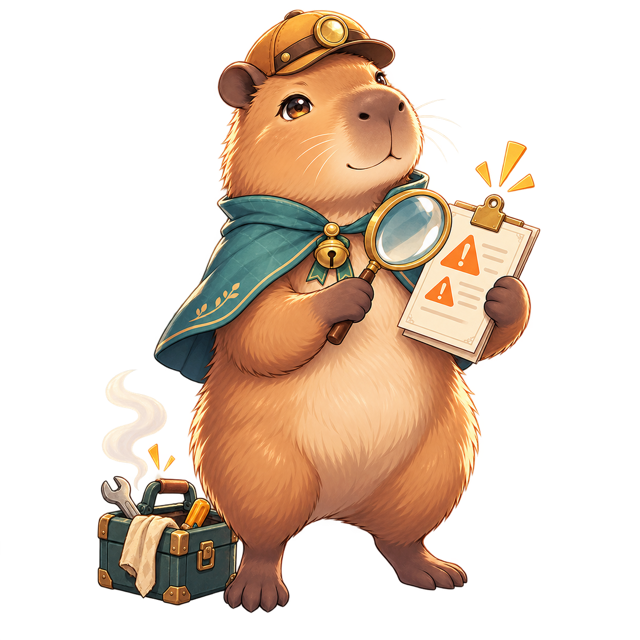
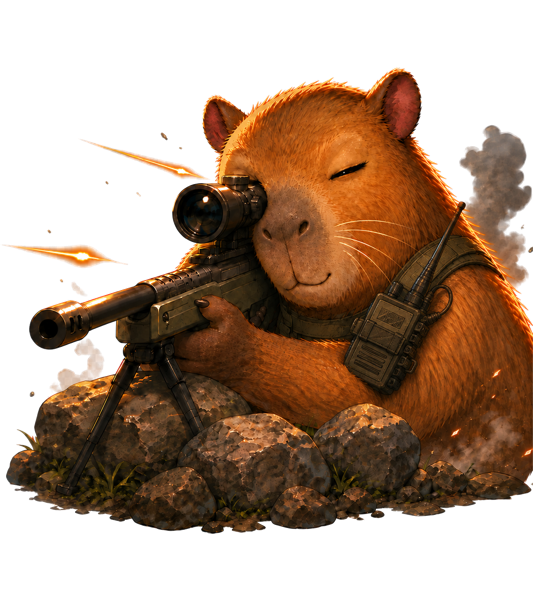
Refresh capybara states and compact notification

diff --git a/companion/Sources/DoneGuardCompanion.swift b/companion/Sources/DoneGuardCompanion.swift
@@ -336,11 +336,11 @@ struct SummaryView: View {
     }
 
     var body: some View {
-        HStack(spacing: 13) {
+        HStack(spacing: 10) {
             MascotImage(status: report.status)
-                .frame(width: 88, height: 116)
+                .frame(width: 66, height: 88)
                 .accessibilityHidden(true)
-            VStack(alignment: .leading, spacing: 13) {
+            VStack(alignment: .leading, spacing: 7) {
                 HStack(spacing: 6) {
                     Circle().fill(accent).frame(width: 7, height: 7)
                     Text(report.projectName)
@@ -349,30 +349,34 @@ struct SummaryView: View {
                         .foregroundStyle(.secondary)
                 }
                 Text(report.headline)
-                    .font(.system(size: 18, weight: .bold, design: .rounded))
-                    .lineLimit(2)
+                    .font(.system(size: 15.5, weight: .bold, design: .rounded))
+                    .lineLimit(1)
                 Text(report.plainSummary)
-                    .font(.system(size: 12.5))
+                    .font(.system(size: 11.5))
                     .foregroundStyle(.secondary)
-                    .lineLimit(2)
+                    .lineLimit(1)
 
                 HStack(spacing: 8) {
                     Button("查看报告", action: showDetails)
                         .buttonStyle(.borderedProminent)
                         .tint(accent)
                         .controlSize(.small)
+                        .font(.system(size: 12.5, weight: .semibold))
+                    Spacer(minLength: 24)
                     Button("稍后", action: postpone)
                         .buttonStyle(.bordered)
                         .controlSize(.small)
+                        .font(.system(size: 12.5, weight: .semibold))
                 }
+                .frame(maxWidth: .infinity)
             }
             .frame(maxWidth: .infinity, alignment: .leading)
         }
-        .padding(14)
-        .frame(width: 400, height: 168)
-        .background(.regularMaterial, in: RoundedRectangle(cornerRadius: 18, style: .continuous))
+        .padding(11)
+        .frame(width: 368, height: 116)
+        .background(.regularMaterial, in: RoundedRectangle(cornerRadius: 16, style: .continuous))
         .overlay {
-            RoundedRectangle(cornerRadius: 18, style: .continuous)
+            RoundedRectangle(cornerRadius: 16, style: .continuous)
                 .stroke(Color.primary.opacity(0.10), lineWidth: 1)
         }
     }
@@ -600,8 +604,8 @@ struct ContentView: View {
                     Text(store.errorMessage ?? "等待 DoneGuard 报告…")
                         .foregroundStyle(.secondary)
                 }
-                .frame(width: 400, height: 168)
-                .background(.regularMaterial, in: RoundedRectangle(cornerRadius: 18, style: .continuous))
+                .frame(width: 368, height: 116)
+                .background(.regularMaterial, in: RoundedRectangle(cornerRadius: 16, style: .continuous))
             }
         }
         .onReceive(poller) { _ in store.poll() }
@@ -624,7 +628,7 @@ final class AppDelegate: NSObject, NSApplicationDelegate {
 
     func applicationDidFinishLaunching(_ notification: Notification) {
         let panel = NSPanel(
-            contentRect: NSRect(x: 0, y: 0, width: 400, height: 168),
+            contentRect: NSRect(x: 0, y: 0, width: 368, height: 116),
             styleMask: [.borderless, .nonactivatingPanel],
             backing: .buffered,
             defer: false
@@ -675,7 +679,7 @@ final class AppDelegate: NSObject, NSApplicationDelegate {
         panel.level = .floating
         panel.backgroundColor = .clear
         panel.isOpaque = false
-        panel.setContentSize(NSSize(width: 400, height: 168))
+        panel.setContentSize(NSSize(width: 368, height: 116))
         let screen = panel.screen ?? NSScreen.main ?? NSScreen.screens.first
         if let visible = screen?.visibleFrame {
             panel.setFrameOrigin(NSPoint(

diff --git a/README.md b/README.md
@@ -177,7 +177,7 @@ zsh /path/to/doneguard/scripts/install_companion_macos.sh
 工作流程如下。
 
 - Hook 只保留一份滚动的 `reports/latest.json`，并为待查看的报告创建临时 bundle。
-- Companion 收到最终停止事件后，在屏幕右上角显示一条非激活式通知，不会抢走当前应用焦点。水豚缩在操作按钮左侧；只有用户主动点击“查看报告”后，独立的不透明报告窗口才会居中并取得焦点。没有安装 Companion 时仍使用聊天内提示。
+- Companion 收到最终停止事件后，在屏幕右上角显示一条接近 macOS 系统横幅尺寸的非激活式通知，不会抢走当前应用焦点。水豚缩在内容左侧，“查看报告”和“稍后”分列操作区两端以减少误触；只有用户主动点击“查看报告”后，独立的不透明报告窗口才会居中并取得焦点。没有安装 Companion 时仍使用聊天内提示。
 - 用户打开完整报告后可以选择“保存报告”或“关闭且不保存”。保存后 bundle 进入 `reports/saved/`，不保存则立即删除。
 - 用户没有作出选择而关闭窗口时，报告仍是临时数据；默认 24 小时后由下一次检查清理。
 - Companion 不保存用户提示词，也不复制项目源文件内容。报告只包含 DoneGuard 已有的证据、路径和检查结果。
@@ -220,4 +220,4 @@ python3 -m py_compile scripts/doneguard.py
 - Merkle 指纹支持 Git 批量哈希和跨会话缓存；预算超限仍会显式产生不完整证据并拒绝通过，大型仓库应根据指标调整规则分片与预算。
 - 通过报告仍然取决于项目测试本身的质量。
 - Companion MVP 目前只支持 macOS 13 及以上版本，使用本机 Swift 编译；应用没有 Developer ID 签名，不适合作为公开下载包直接分发。
-- 当前视觉先覆盖“完成”和“发现问题”两种主状态，warning 暂时复用异常水豚；后续可以继续扩展过期、等待和离线状态。
+- 当前视觉覆盖“完成”和“发现问题”两种主状态：完成时水豚泡在温泉里，发现问题时水豚带着无线电在炮火背景下进行狙击瞄准。warning 暂时复用异常水豚；后续可以继续扩展过期、等待和离线状态。
